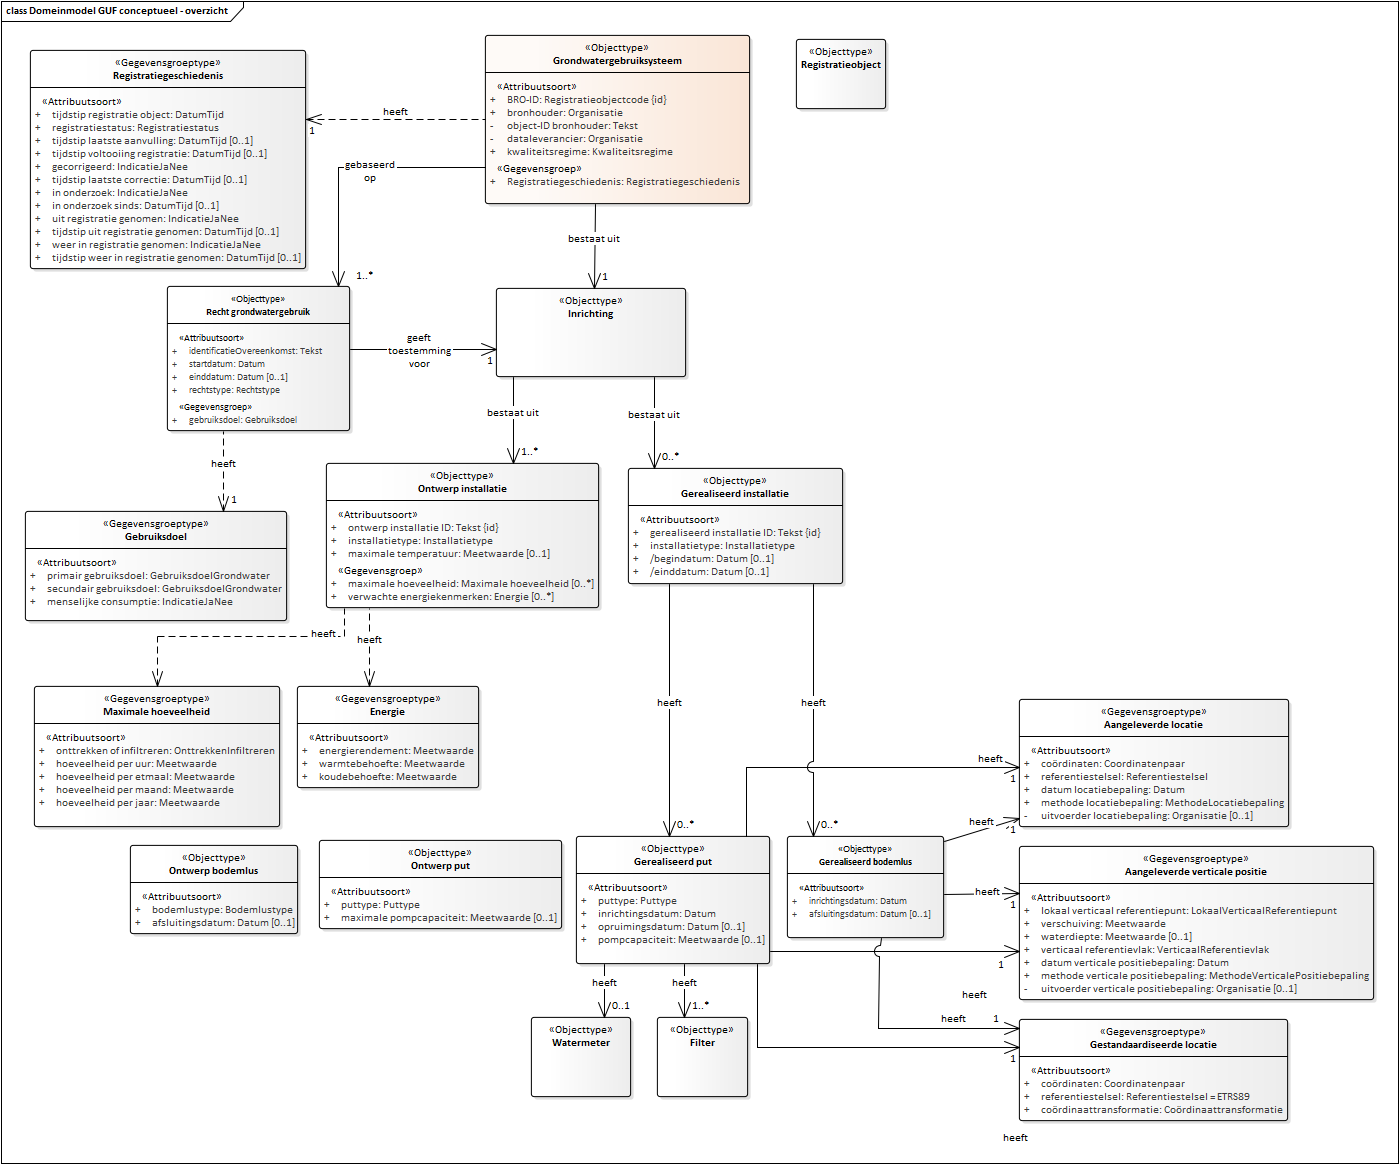
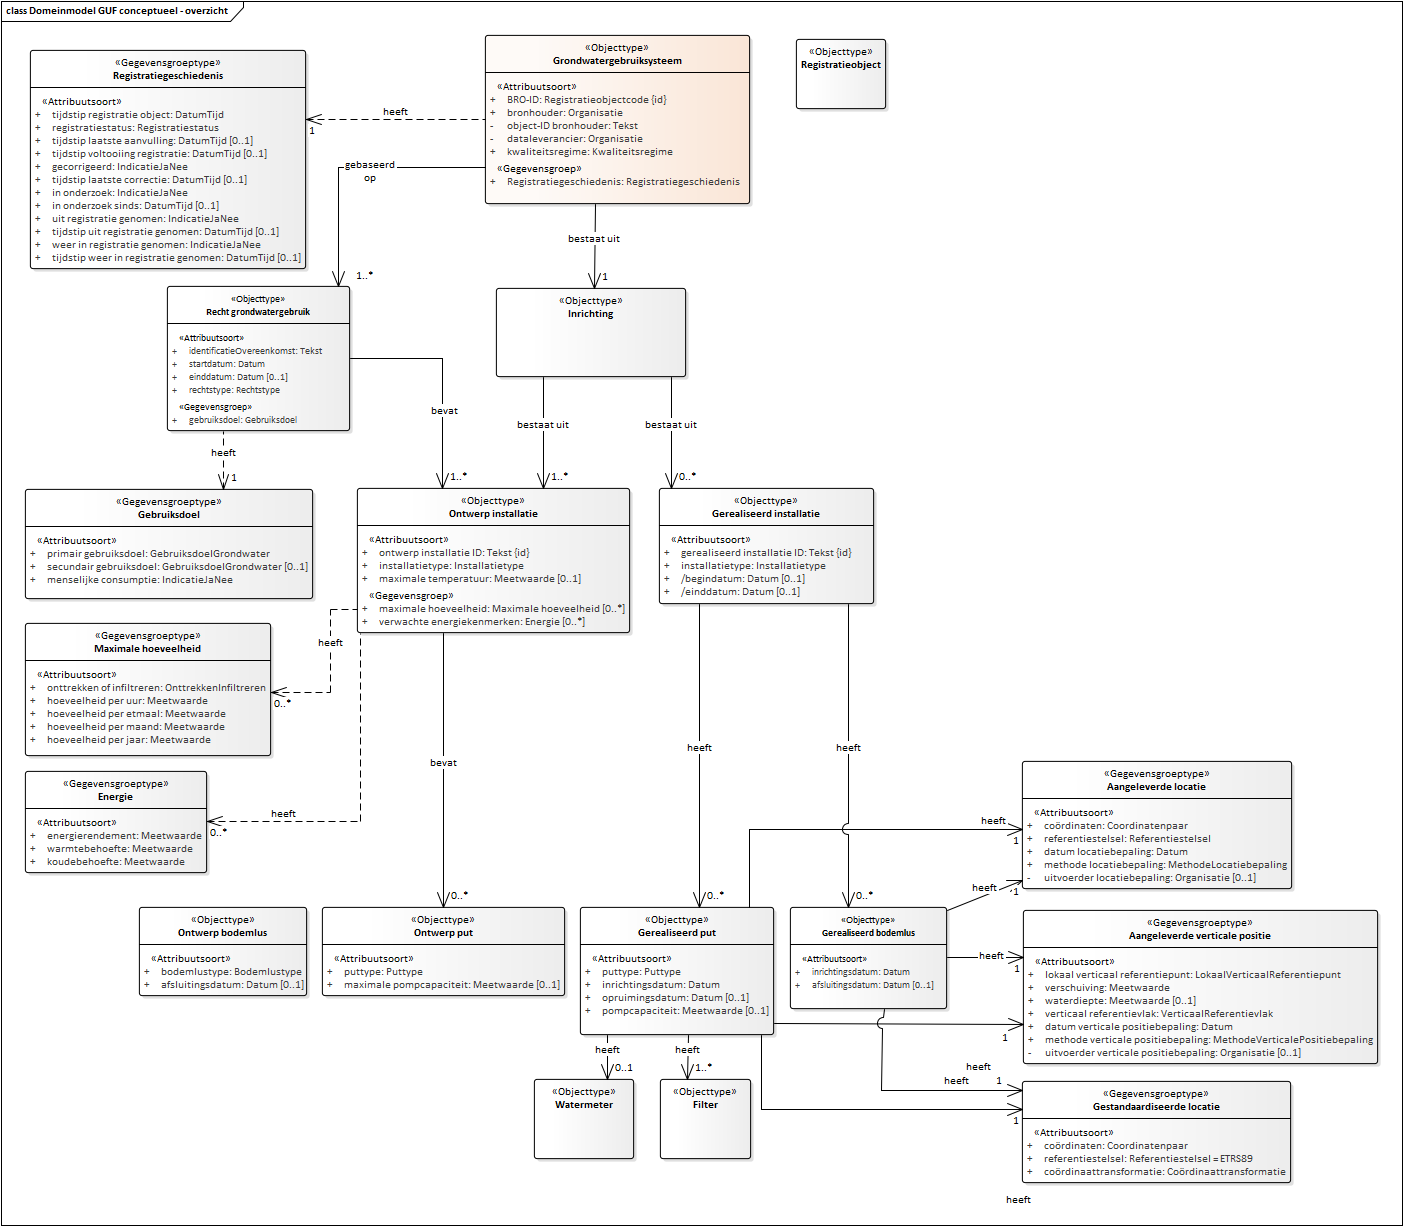
Conceptualmodel-GrondwatergebruikGUFconceptueel-0.1-1-20200401-20201012-165558

diff --git a/data/GUF-cat.msword.html b/data/GUF-cat.msword.html
@@ -15,7 +15,7 @@
    <body>
       <p>Conceptual model/Grondwatergebruik (GUF) conceptueel/20200401</p>
       <p>Imvertor: 1.61.3</p>
-      <p>Model release: Conceptualmodel-GrondwatergebruikGUFconceptueel-0.1-1-20200401-20201008-171721</p>
+      <p>Model release: Conceptualmodel-GrondwatergebruikGUFconceptueel-0.1-1-20200401-20201012-165558</p>
       <hr>
       <section>
          <h1>Artikel 1 Definitie van registratieobject, entiteiten en attributen</h1>
@@ -62,7 +62,7 @@
          <section>
             <h2>Het domeinmodel</h2>
             <section id="">
-               <div class="imageinfo overview"><img src="Images/EAID_56F5F935_4109_4da0_A034_9EA7B40769E1.png" usemap="#imagemap-EAID_56F5F935_4109_4da0_A034_9EA7B40769E1" alt="Diagram "><map name="imagemap-EAID_56F5F935_4109_4da0_A034_9EA7B40769E1"><area shape="rect" alt="Ontwerp bodemlus" coords="130,845,298,934" href="#graph_EAID_B81BCB5C_B9C7_42d9_9F9E_3F76580BB410"><area shape="rect" alt="Ontwerp put" coords="319,840,562,929" href="#graph_EAID_FC483397_9430_4114_AE54_A7BE5A654EA9"><area shape="rect" alt="Energie" coords="297,686,479,788" href="#graph_EAID_F60FFCA9_A741_4d37_8DFE_FC87122B9777"><area shape="rect" alt="Maximale hoeveelheid" coords="34,686,280,827" href="#graph_EAID_D88F2231_8D52_4bac_AE7F_55102360A23B"><area shape="rect" alt="Gebruiksdoel" coords="25,511,287,621" href="#graph_EAID_DB9B3E32_EE42_4c47_A5CC_5AE7B58A2D13"><area shape="rect" alt="Inrichting" coords="496,288,686,377" href="#graph_EAID_FA614186_4D53_4fea_978C_DD8991CA0CF9"><area shape="rect" alt="Gerealiseerd installatie" coords="628,468,843,584" href="#graph_EAID_45C4EF5D_AC27_47cc_926D_7F514776B53D"><area shape="rect" alt="Gestandaardiseerde locatie" coords="1019,1019,1288,1121" href="#graph_EAID_7F1D92D4_092C_4272_8CA2_89F93EA3F12E"><area shape="rect" alt="Aangeleverde verticale positie" coords="1019,846,1374,1000" href="#graph_EAID_6AA525F0_F1B6_4471_96BE_E1DEF2FCC704"><area shape="rect" alt="Watermeter" coords="531,1017,631,1097" href="#graph_EAID_4A487037_0E94_4ee8_81A8_2355D11DE89F"><area shape="rect" alt="Filter" coords="657,1017,748,1097" href="#graph_EAID_9D151445_53ED_4738_9920_071518BB50C1"><area shape="rect" alt="Recht grondwatergebruik" coords="167,286,350,431" href="#graph_EAID_1A591F8A_2ECC_4122_86C9_26BFA5C5420E"><area shape="rect" alt="Gerealiseerd put" coords="576,836,770,964" href="#graph_EAID_F75BA1C9_02EB_48e6_B9A8_A018120E2279"><area shape="rect" alt="Gerealiseerd bodemlus" coords="787,836,944,938" href="#graph_EAID_D45703EE_CCD5_434c_A478_BFA48D1A9DCB"><area shape="rect" alt="Ontwerp installatie" coords="326,463,599,608" href="#graph_EAID_DB2636FB_090C_4af0_AA40_4301B23795E2"><area shape="rect" alt="Registratiegeschiedenis" coords="30,50,306,269" href="#graph_EAID_C00FA7D7_7F78_413d_80CC_8F5D41996171"><area shape="rect" alt="Aangeleverde locatie" coords="1019,699,1289,827" href="#graph_EAID_FA55712E_2710_4bb3_A08E_6B62C39189F5"><area shape="rect" alt="Grondwatergebruiksysteem" coords="485,35,750,204" href="#graph_EAID_048DC684_486B_4605_B9CA_40413DB3C9DC"><area shape="rect" alt="Registratieobject" coords="796,39,886,109" href="#graph_EAID_2AC7632D_D0CE_4468_8510_855B506BE12A"></map><p><b>Domeinmodel GUF conceptueel</b></p>
+               <div class="imageinfo overview"><img src="Images/EAID_56F5F935_4109_4da0_A034_9EA7B40769E1.png" usemap="#imagemap-EAID_56F5F935_4109_4da0_A034_9EA7B40769E1" alt="Diagram "><map name="imagemap-EAID_56F5F935_4109_4da0_A034_9EA7B40769E1"><area shape="rect" alt="Ontwerp bodemlus" coords="139,907,307,996" href="#graph_EAID_B81BCB5C_B9C7_42d9_9F9E_3F76580BB410"><area shape="rect" alt="Ontwerp put" coords="322,907,565,996" href="#graph_EAID_FC483397_9430_4114_AE54_A7BE5A654EA9"><area shape="rect" alt="Energie" coords="25,771,207,873" href="#graph_EAID_F60FFCA9_A741_4d37_8DFE_FC87122B9777"><area shape="rect" alt="Maximale hoeveelheid" coords="25,623,271,756" href="#graph_EAID_D88F2231_8D52_4bac_AE7F_55102360A23B"><area shape="rect" alt="Gebruiksdoel" coords="25,489,313,599" href="#graph_EAID_DB9B3E32_EE42_4c47_A5CC_5AE7B58A2D13"><area shape="rect" alt="Inrichting" coords="496,288,686,377" href="#graph_EAID_FA614186_4D53_4fea_978C_DD8991CA0CF9"><area shape="rect" alt="Gerealiseerd installatie" coords="659,488,874,604" href="#graph_EAID_45C4EF5D_AC27_47cc_926D_7F514776B53D"><area shape="rect" alt="Gestandaardiseerde locatie" coords="1022,1081,1291,1183" href="#graph_EAID_7F1D92D4_092C_4272_8CA2_89F93EA3F12E"><area shape="rect" alt="Aangeleverde verticale positie" coords="1023,910,1378,1064" href="#graph_EAID_6AA525F0_F1B6_4471_96BE_E1DEF2FCC704"><area shape="rect" alt="Watermeter" coords="534,1079,634,1159" href="#graph_EAID_4A487037_0E94_4ee8_81A8_2355D11DE89F"><area shape="rect" alt="Filter" coords="660,1079,751,1159" href="#graph_EAID_9D151445_53ED_4738_9920_071518BB50C1"><area shape="rect" alt="Recht grondwatergebruik" coords="167,286,350,431" href="#graph_EAID_1A591F8A_2ECC_4122_86C9_26BFA5C5420E"><area shape="rect" alt="Gerealiseerd put" coords="580,907,774,1035" href="#graph_EAID_F75BA1C9_02EB_48e6_B9A8_A018120E2279"><area shape="rect" alt="Gerealiseerd bodemlus" coords="790,907,947,1009" href="#graph_EAID_D45703EE_CCD5_434c_A478_BFA48D1A9DCB"><area shape="rect" alt="Ontwerp installatie" coords="357,488,630,633" href="#graph_EAID_DB2636FB_090C_4af0_AA40_4301B23795E2"><area shape="rect" alt="Registratiegeschiedenis" coords="30,50,306,269" href="#graph_EAID_C00FA7D7_7F78_413d_80CC_8F5D41996171"><area shape="rect" alt="Aangeleverde locatie" coords="1022,761,1292,889" href="#graph_EAID_FA55712E_2710_4bb3_A08E_6B62C39189F5"><area shape="rect" alt="Grondwatergebruiksysteem" coords="485,35,750,204" href="#graph_EAID_048DC684_486B_4605_B9CA_40413DB3C9DC"><area shape="rect" alt="Registratieobject" coords="796,39,886,109" href="#graph_EAID_2AC7632D_D0CE_4468_8510_855B506BE12A"></map><p><b>Domeinmodel GUF conceptueel</b></p>
                </div>
             </section>
          </section>
@@ -2764,7 +2764,7 @@
                            </tr>
                            <tr>
                               <th>Kardinaliteit</th>
-                              <td>1</td>
+                              <td>0..1</td>
                            </tr>
                            <tr>
                               <th>Domein</th>
